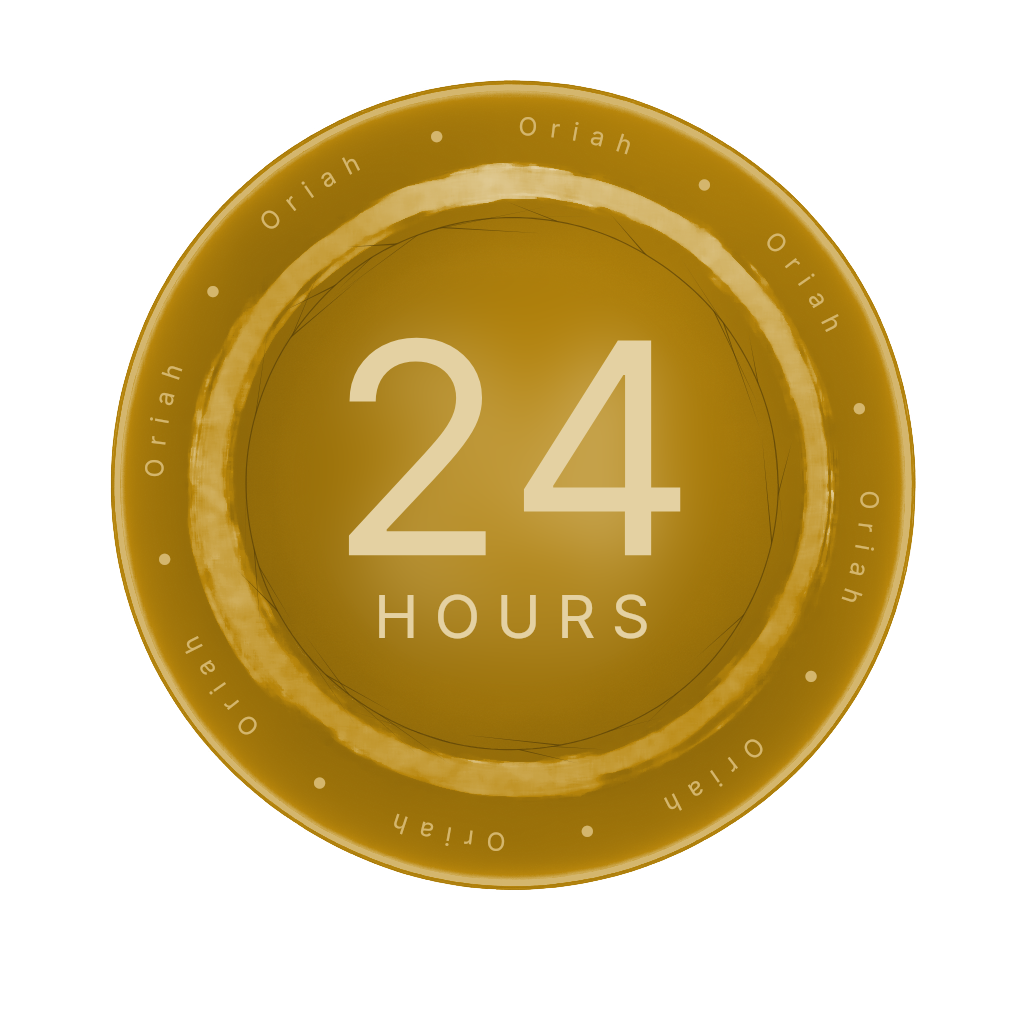
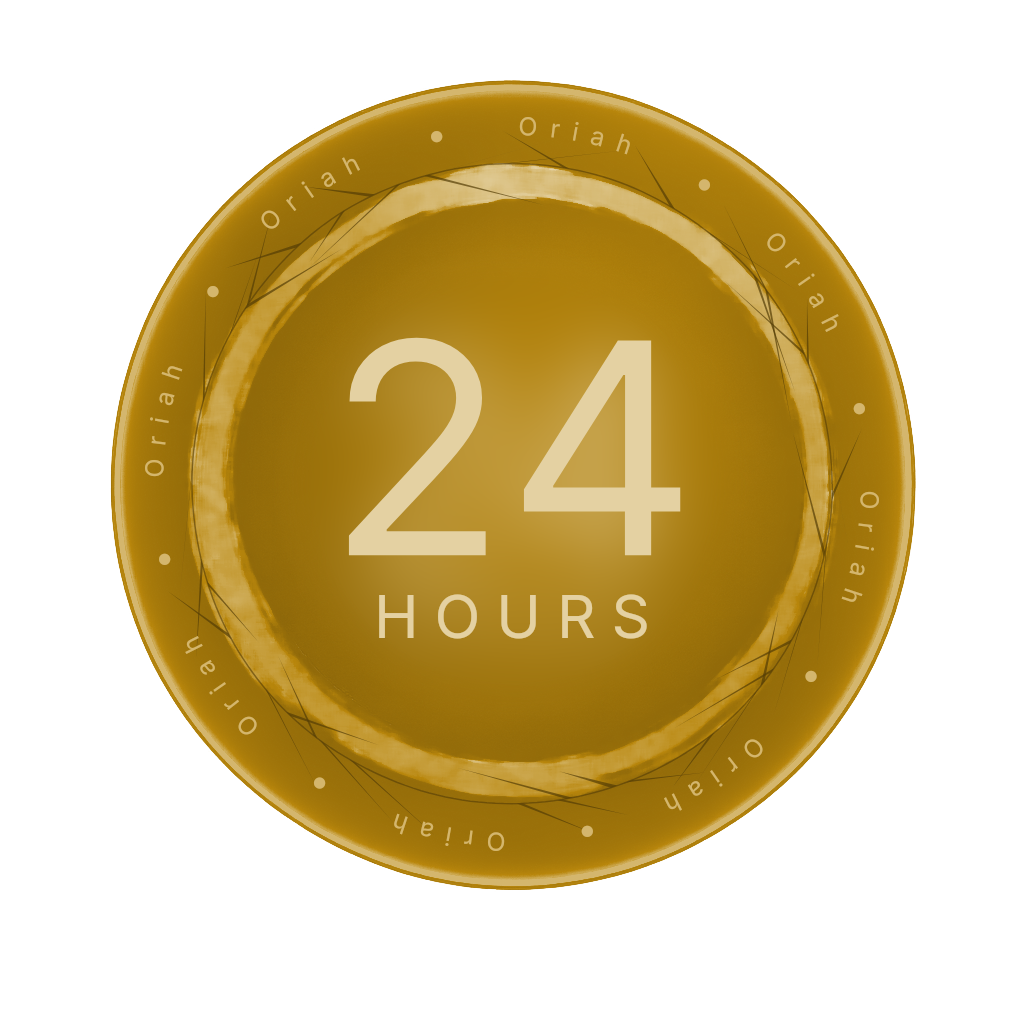
Oriah preview v4: thorn crown sits in chrome ring band

diff --git a/oriah-badges-staging/scripts/generate-oriah-badges.ts b/oriah-badges-staging/scripts/generate-oriah-badges.ts
@@ -374,39 +374,33 @@ function drawMicroTypography(ctx: SKRSContext2D, hex: string) {
   ctx.drawImage(layer, 0, 0)
 }
 
-// Crown of thorns — a thin twisted branch encircling the inner disc, with
-// short sharp thorns sticking out at irregular angles. Aims to evoke
-// Christ's crown rather than read as a decorative sawtooth border. Drawn
-// in a darker etched tone of the badge color so it reads as engraved.
+// Crown of thorns — a thin twisted branch sitting INSIDE the chrome ring,
+// with thorns spiking out across the ring's brushwork so the crown reads
+// as part of the chrome ring itself rather than a separate inner element.
 function drawCrownOfThorns(ctx: SKRSContext2D, hex: string) {
-  // Base radius of the woven branch. Sits right at the chrome ring's
-  // inner edge (~r=265) so the thorn bases kiss the ring boundary.
-  const branchR = 266
+  // Branch sits at the chrome ring's centerline (~r=320, mid-band).
+  // Thorns then spike both inward and outward through the brushwork.
+  const branchR = 320
 
   const [r, g, b] = hexToRgb(hex)
-  // Dark etched tone — pull badge color 45% toward black for a deep
-  // engraved feel that still carries the hue (instead of pure black).
   const darkR = Math.round(r * 0.45)
   const darkG = Math.round(g * 0.45)
   const darkB = Math.round(b * 0.45)
-  const stroke = `rgba(${darkR}, ${darkG}, ${darkB}, 0.65)`
+  const stroke = `rgba(${darkR}, ${darkG}, ${darkB}, 0.6)`
   const fill   = `rgba(${darkR}, ${darkG}, ${darkB}, 0.7)`
 
-  // Deterministic pseudo-randomness so thorn placement is stable across runs.
   let seed = 1337
   const rand = () => {
     seed = (seed * 1664525 + 1013904223) % 0x100000000
     return seed / 0x100000000
   }
-  // Subtle wobble — keeps the branch organic without it veering off the
-  // circle. Max excursion ~0.8 px (was ~2.5).
+  // Subtle wobble — keeps the branch organic without veering off the circle.
   const noise = (t: number) =>
-    Math.sin(t * 3.1) * 0.45 + Math.sin(t * 7.7 + 1.3) * 0.25 + Math.sin(t * 13.4 + 2.7) * 0.1
+    Math.sin(t * 3.1) * 0.5 + Math.sin(t * 7.7 + 1.3) * 0.3 + Math.sin(t * 13.4 + 2.7) * 0.1
 
   ctx.save()
 
-  // 1. The woven branch — a thin closed circular line that traces the
-  //    chrome ring's inner edge tightly.
+  // 1. Woven branch — tracing the mid-band of the chrome ring.
   ctx.beginPath()
   const ringPoints = 240
   for (let i = 0; i <= ringPoints; i++) {
@@ -418,13 +412,12 @@ function drawCrownOfThorns(ctx: SKRSContext2D, hex: string) {
     else ctx.lineTo(x, y)
   }
   ctx.strokeStyle = stroke
-  ctx.lineWidth = 1.2
+  ctx.lineWidth = 1.5
   ctx.lineJoin = 'round'
   ctx.stroke()
 
-  // 2. Thorns — individual sharp triangular spikes anchored to the branch
-  //    at irregular intervals. All angled slightly off-radial so none read
-  //    as a flat upright post.
+  // 2. Thorns — bigger this round so they span the chrome ring's width,
+  //    angled off-radial so none reads as a flat post.
   type Thorn = {
     angle: number
     len: number
@@ -433,36 +426,34 @@ function drawCrownOfThorns(ctx: SKRSContext2D, hex: string) {
     base: number
   }
 
-  // Minimum angular skew so no thorn is perfectly radial (which reads as
-  // an upright post). Always at least 0.15 rad off, signed randomly.
   const skewed = () => {
     const sign = rand() < 0.5 ? -1 : 1
-    return sign * (0.15 + rand() * 0.30)  // |skew| in 0.15..0.45
+    return sign * (0.15 + rand() * 0.30)
   }
 
   const thorns: Thorn[] = []
-  // Outward thorns — ~28 around the ring, irregular spacing.
+  // Outward thorns — extend toward the chrome ring's outer edge (~r=380).
   const N_OUT = 28
   for (let i = 0; i < N_OUT; i++) {
     const evenly = (i / N_OUT) * Math.PI * 2
     const jitter = (rand() - 0.5) * (Math.PI * 2 / N_OUT) * 0.7
     thorns.push({
       angle: evenly + jitter,
-      len: 10 + rand() * 14,      // 10–24 px
+      len: 22 + rand() * 22,    // 22–44 px — reaches into the brushwork
       side: 1,
       skew: skewed(),
-      base: 1.8 + rand() * 1.0,   // 1.8–2.8 px — tighter range
+      base: 2.6 + rand() * 1.4, // 2.6–4.0 px — thicker
     })
   }
-  // A scattering of shorter inward thorns — adds the "twisted" character.
-  const N_IN = 12
+  // Inward thorns — extend back toward the inner-disc edge (~r=265).
+  const N_IN = 16
   for (let i = 0; i < N_IN; i++) {
     thorns.push({
       angle: rand() * Math.PI * 2,
-      len: 5 + rand() * 9,        // 5–14 px
+      len: 18 + rand() * 22,    // 18–40 px
       side: -1,
       skew: skewed(),
-      base: 1.5 + rand() * 0.8,   // 1.5–2.3 px
+      base: 2.2 + rand() * 1.3, // 2.2–3.5 px
     })
   }
 
